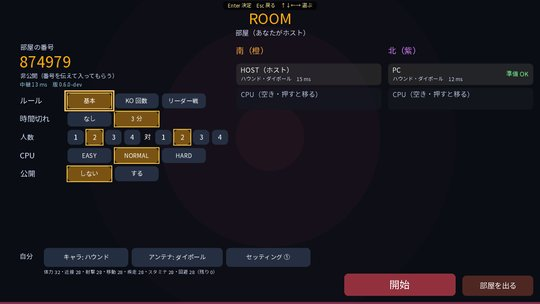
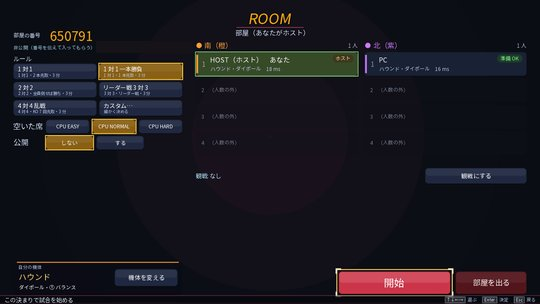
Phonetic Hound Versus: 説明ページの画像を 1.0.0 の画面に差しかえ（新しいメニュー・チームの見分け・ロックオン表示・溜め完了の攻撃・友達に紹介）

diff --git a/phonetic_hound_versus/README.md b/phonetic_hound_versus/README.md
@@ -27,28 +27,40 @@ Android 版と Windows 版があり、**オンライン対戦では Android と 
 
 <table>
 <tr>
-<td align="center"><img src="images/blade_windup.jpg" width="420" alt="光の刃の振りかぶり"><br>近接は光の刃。大きく振りかぶってから振り下ろす</td>
+<td align="center"><img src="images/blade_windup.jpg" width="420" alt="光の刃"><br>近接は光の刃。当たると火花が散る</td>
 <td align="center"><img src="images/blade_trail.jpg" width="420" alt="光の刃の残像"><br>刃の長さ = 届く距離。振り抜くと残像が残る</td>
 </tr>
 <tr>
-<td align="center"><img src="images/finisher.jpg" width="420" alt="噛み合いと致命の一撃"><br>電波が噛み合うと半ダウン → 致命の一撃</td>
-<td align="center"><img src="images/charged.jpg" width="420" alt="溜め完了の攻撃"><br>溜め完了の攻撃（バイコニカルは全周の衝撃波）</td>
+<td align="center"><img src="images/finisher.jpg" width="420" alt="致命の一撃"><br>電波が噛み合うと半ダウン → 致命の一撃</td>
+<td align="center"><img src="images/charged.jpg" width="420" alt="パラボラの溜め完了の攻撃"><br>溜め完了の攻撃。パラボラは端まで届いて貫く太いレーザー</td>
 </tr>
 <tr>
-<td align="center"><img src="images/team_4v4.jpg" width="420" alt="4 対 4"><br>4 対 4 のリーダー戦。左はレーダー</td>
+<td align="center"><img src="images/horn6.jpg" width="420" alt="ホーンの溜め完了の攻撃"><br>ホーンは細いレーザー 6 本</td>
+<td align="center"><img src="images/dipole_wall.jpg" width="420" alt="ダイポールの溜め完了の攻撃"><br>ダイポールは扇状に広がる光の壁</td>
+</tr>
+<tr>
+<td align="center"><img src="images/team_4v4.jpg" width="420" alt="4 対 4"><br>4 対 4。足元の輪・名札・色でチームが分かる</td>
+<td align="center"><img src="images/lock.jpg" width="420" alt="ロックオンされている数と方向"><br>LOCKED ×n と、ロックしている敵の方へ伸びる足元の帯</td>
+</tr>
+<tr>
 <td align="center"><img src="images/spectate.jpg" width="420" alt="観戦"><br>CPU どうしの 4 対 4 を観戦（4 倍速）</td>
+<td align="center"><img src="images/arcade.jpg" width="420" alt="アーケードの連勝"><br>アーケード。乱入に勝ち続けると「n 連勝中」</td>
 </tr>
 <tr>
 <td align="center"><img src="images/chara.jpg" width="420" alt="キャラ選択"><br>キャラは 9 体。みんな同じ背丈・同じ性能</td>
 <td align="center"><img src="images/setting.jpg" width="420" alt="セッティング"><br>Lv 200 のポイントを振り分ける</td>
 </tr>
 <tr>
-<td align="center"><img src="images/online_lobby.jpg" width="420" alt="オンライン対戦のロビー"><br>オンライン対戦: 部屋を作る / 番号で入る / 公開の部屋</td>
+<td align="center"><img src="images/menu.jpg" width="420" alt="メインメニュー"><br>メインメニュー（Android 版）</td>
+<td align="center"><img src="images/invite.jpg" width="420" alt="友達に紹介"><br>友達に紹介: ダウンロード用の QR コード</td>
+</tr>
+<tr>
+<td align="center"><img src="images/online_lobby.jpg" width="420" alt="オンライン対戦の入口"><br>オンライン対戦: すぐ遊ぶ / 部屋を作る / 番号で入る / 公開の部屋</td>
 <td align="center"><img src="images/online_room.jpg" width="420" alt="部屋"><br>部屋: ホストがルール・人数を決める。空いた席は CPU</td>
 </tr>
 <tr>
-<td align="center"><img src="images/online_match.jpg" width="420" alt="オンラインの試合"><br>オンラインの 2 対 2（人 2 人 + CPU 2 人）</td>
-<td align="center"><img src="images/online_android.jpg" width="420" alt="Android のタッチ操作"><br>Android 版（タッチ）で Windows 版の相手と対戦</td>
+<td align="center"><img src="images/online_match.jpg" width="420" alt="オンラインの試合"><br>オンラインの試合（Windows 版）</td>
+<td align="center"><img src="images/android_touch.jpg" width="420" alt="Android のタッチ操作"><br>Android 版（タッチ）の 4 対 4</td>
 </tr>
 </table>
 
